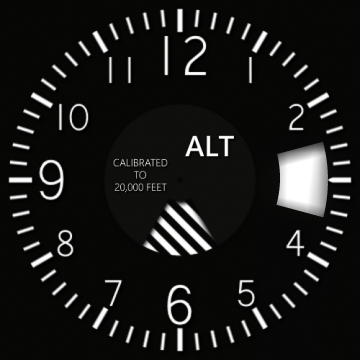
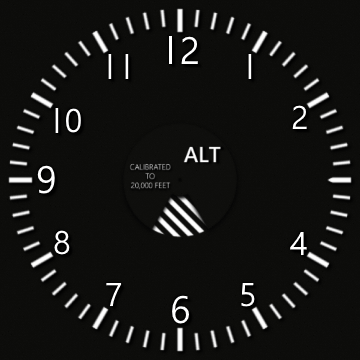
Updated watch background
And brought back bg paradigm from example

diff --git a/src/view.c b/src/view.c
@@ -23,15 +23,58 @@
 #include "view.h"
 
 static struct view_info {
+	Evas_Object *background;
 	Evas_Object *watchface;
 	Evas_Object *module_second_layout;
 	Evas_Object *module_minute_layout;
 } s_info = {
+	.background = NULL,
 	.watchface = NULL,
 	.module_second_layout = NULL,
 	.module_minute_layout = NULL,
 };
 
+
+/**
+ * @breif Create a bg object for the watch
+ * @param[in] win The window object
+ * @param[in] image_path The image path for bg
+ * @param[in] width The width size of bg
+ * @param[in] height The height size of bg
+ */
+Evas_Object *view_create_background(Evas_Object *win, const char *image_path, int width, int height)
+{
+	Evas_Object *bg = NULL;
+	Eina_Bool ret = EINA_FALSE;
+
+	if (win == NULL) {
+		dlog_print(DLOG_ERROR, LOG_TAG, "window is NULL");
+		return NULL;
+	}
+
+	bg = elm_bg_add(win);
+	if (bg == NULL) {
+		dlog_print(DLOG_ERROR, LOG_TAG, "Failed to add bg");
+		return NULL;
+	}
+
+	ret = elm_bg_file_set(bg, image_path, NULL);
+	if (ret != EINA_TRUE) {
+		dlog_print(DLOG_ERROR, LOG_TAG, "Failed to set the background image");
+		evas_object_del(bg);
+		return NULL;
+	}
+
+	elm_bg_option_set(bg, ELM_BG_OPTION_CENTER);
+
+	evas_object_move(bg, 0, 0);
+	evas_object_resize(bg, width, height);
+	evas_object_show(bg);
+
+	s_info.background = bg;
+
+	return bg;
+}
 
 /**
  * @brief Set the module day layout.
@@ -74,6 +117,13 @@ void view_set_module_minute_layout(Evas_Object *layout)
 	s_info.module_minute_layout = layout;
 }
 
+/**
+ * @brief Get the background object.
+ */
+Evas_Object *view_get_bg(void)
+{
+	return s_info.background;
+}
 
 /**
  * @brief Get the watchface object.
@@ -285,7 +335,7 @@ Evas_Object *view_create_parts(Evas_Object *parent, const char *image_path, int 
 	Eina_Bool ret = EINA_FALSE;
 
 	if (parent == NULL) {
-		dlog_print(DLOG_ERROR, LOG_TAG, "watchface is NULL");
+		dlog_print(DLOG_ERROR, LOG_TAG, "background is NULL");
 		return NULL;
 	}
 
@@ -314,26 +364,32 @@ Evas_Object *view_create_parts(Evas_Object *parent, const char *image_path, int 
  */
 void view_destroy_base_gui(void)
 {
+	if (s_info.watchface) {
+		evas_object_del(s_info.watchface);
+		s_info.watchface = NULL;
+	}
+
 	if (s_info.module_second_layout) {
 		evas_object_del(s_info.module_second_layout);
 		s_info.module_second_layout = NULL;
 	}
+
 	if (s_info.module_minute_layout) {
 		evas_object_del(s_info.module_minute_layout);
 		s_info.module_minute_layout = NULL;
 	}
 
-	if (s_info.watchface) {
-		evas_object_data_del(s_info.watchface, "__HANDS_MIN__");
-		evas_object_data_del(s_info.watchface, "__HANDS_HOUR__");
-		evas_object_data_del(s_info.watchface, "__HANDS_MODULE_MONTH__");
-		evas_object_data_del(s_info.watchface, "__HANDS_MODULE_WEEKDAY__");
-		evas_object_data_del(s_info.watchface, "__HANDS_SEC_SHADOW__");
-		evas_object_data_del(s_info.watchface, "__HANDS_MIN_SHADOW__");
-		evas_object_data_del(s_info.watchface, "__HANDS_HOUR_SHADOW__");
-		evas_object_data_del(s_info.watchface, "__HANDS_MODULE_MONTH_SHADOW__");
-		evas_object_data_del(s_info.watchface, "__HANDS_MODULE_WEEKDAY_SHADOW__");
-		evas_object_del(s_info.watchface);
-		s_info.watchface = NULL;
+	if (s_info.background) {
+		evas_object_data_del(s_info.background, "__HANDS_MIN__");
+		evas_object_data_del(s_info.background, "__HANDS_HOUR__");
+		evas_object_data_del(s_info.background, "__HANDS_MODULE_MONTH__");
+		evas_object_data_del(s_info.background, "__HANDS_MODULE_WEEKDAY__");
+		evas_object_data_del(s_info.background, "__HANDS_SEC_SHADOW__");
+		evas_object_data_del(s_info.background, "__HANDS_MIN_SHADOW__");
+		evas_object_data_del(s_info.background, "__HANDS_HOUR_SHADOW__");
+		evas_object_data_del(s_info.background, "__HANDS_MODULE_MONTH_SHADOW__");
+		evas_object_data_del(s_info.background, "__HANDS_MODULE_WEEKDAY_SHADOW__");
+		evas_object_del(s_info.background);
+		s_info.background = NULL;
 	}
 }
